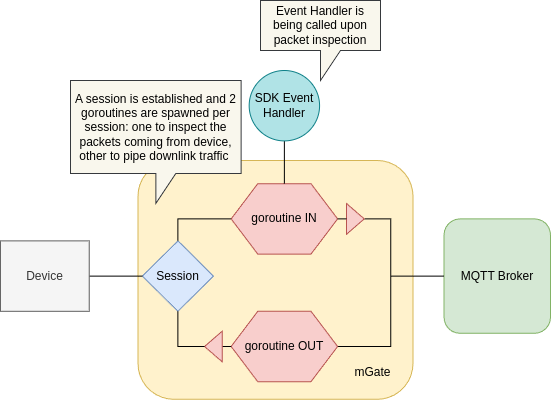
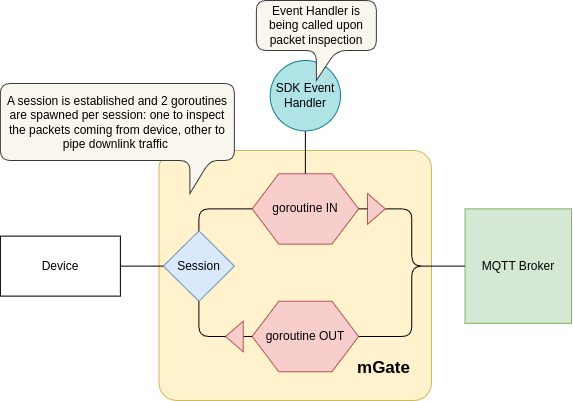
NOISSUE - Update diagrams (#73)

Changed region(s): [[0.0, 0.0, 1.0, 1.0]]

diff --git a/README.md b/README.md
@@ -11,7 +11,7 @@ The extensible nature of mGate allows developers to customize it to fit various 
 ## Key Features
 
 Some of the key features of mGate include multi-protocol support, real-time packet manipulation, pluggable authentication, observability, and scalability, all while being lightweight, customizable, and easily deployable as a sidecar or standalone service. 
-<p align="center"><img src="docs/img/features.png"></p>
+<p align="center"><img src="docs/img/mgate-features.png"></p>
 
 #### Multi-Protocol Support
 mGate is built to interface with a wide range of IoT protocols, including:
